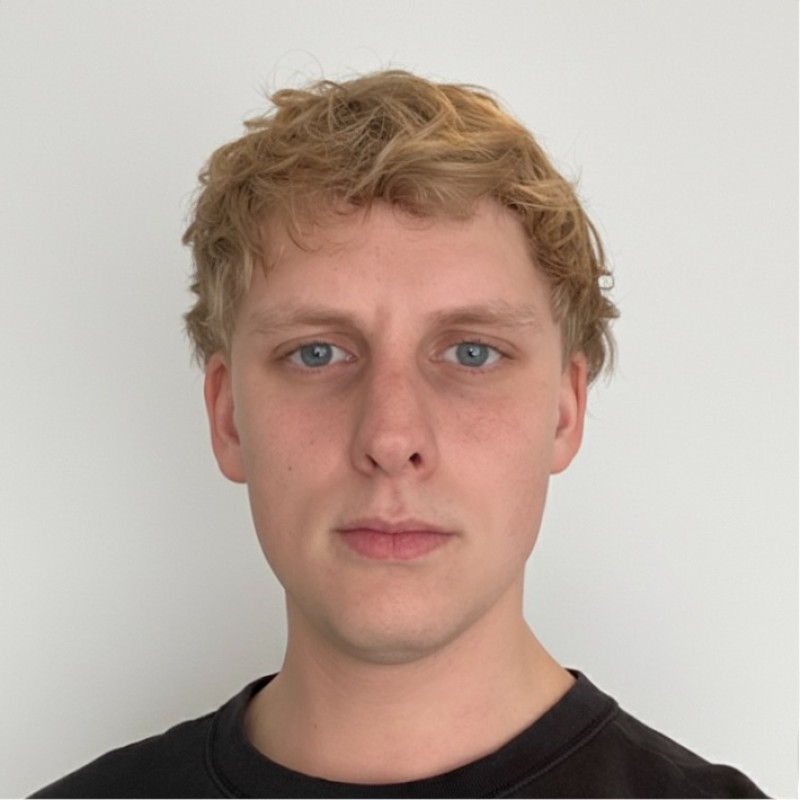
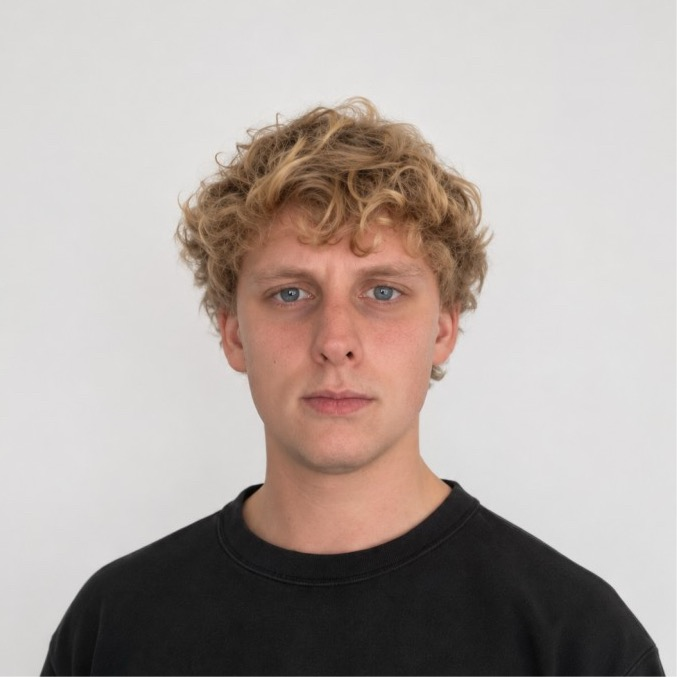
Vervang profielfoto door nieuwe portretfoto

diff --git a/index.html b/index.html
@@ -73,7 +73,7 @@
       <header class="sidebar">
         <div class="sidebar__top">
           <a class="avatar" href="/" aria-label="Freek van Rijn">
-            <img src="avatar.jpg" alt="Portretfoto van Freek van Rijn" width="96" height="96" />
+            <img src="avatar.jpg?v=6149b8df1a09" alt="Portretfoto van Freek van Rijn" width="96" height="96" />
           </a>
 
           <p class="sidebar__mark">
